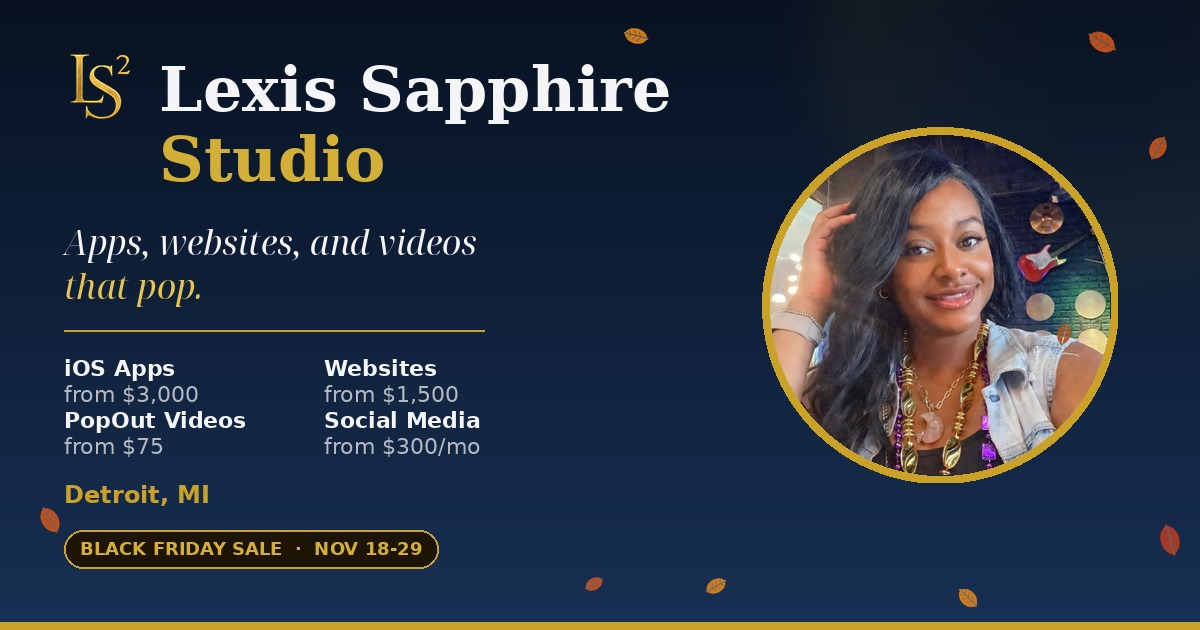
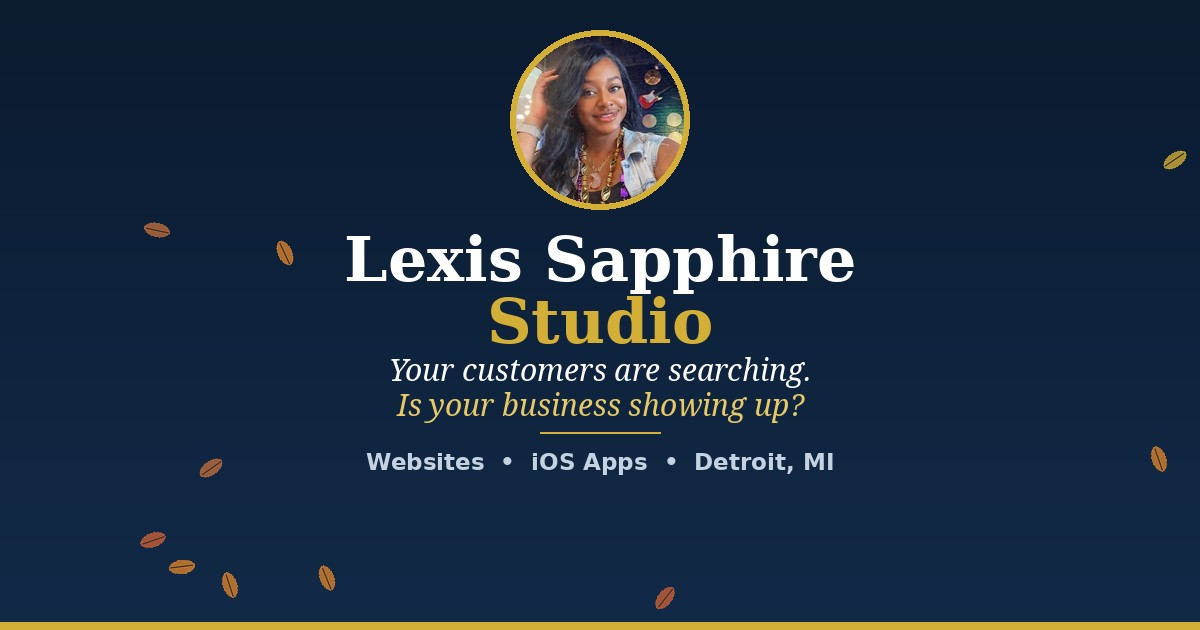
Homepage og-image v2: centered design that survives Facebook square crop; drop stale Black Friday badge and shelved PopOut/Social prices

diff --git a/index.html b/index.html
@@ -19,7 +19,7 @@
 <meta property="og:image" content="https://lexissapphirestudio.com/og-image.jpg">
 <meta property="og:image:width" content="1200">
 <meta property="og:image:height" content="630">
-<meta property="og:image:alt" content="Lexis Sapphire Studio: Apps, websites, and videos that pop. Detroit, MI.">
+<meta property="og:image:alt" content="Lexis Sapphire Studio: custom websites and iOS apps for Detroit small businesses.">
 <meta name="twitter:card" content="summary_large_image">
 <meta name="twitter:title" content="Detroit Web Design & iOS App Development | Lexis Sapphire Studio">
 <meta name="twitter:description" content="Custom websites from $1,500, iOS apps from $3,000. Payment plans available. Motor City Match awardee building fast, mobile-first sites for Detroit small businesses.">
